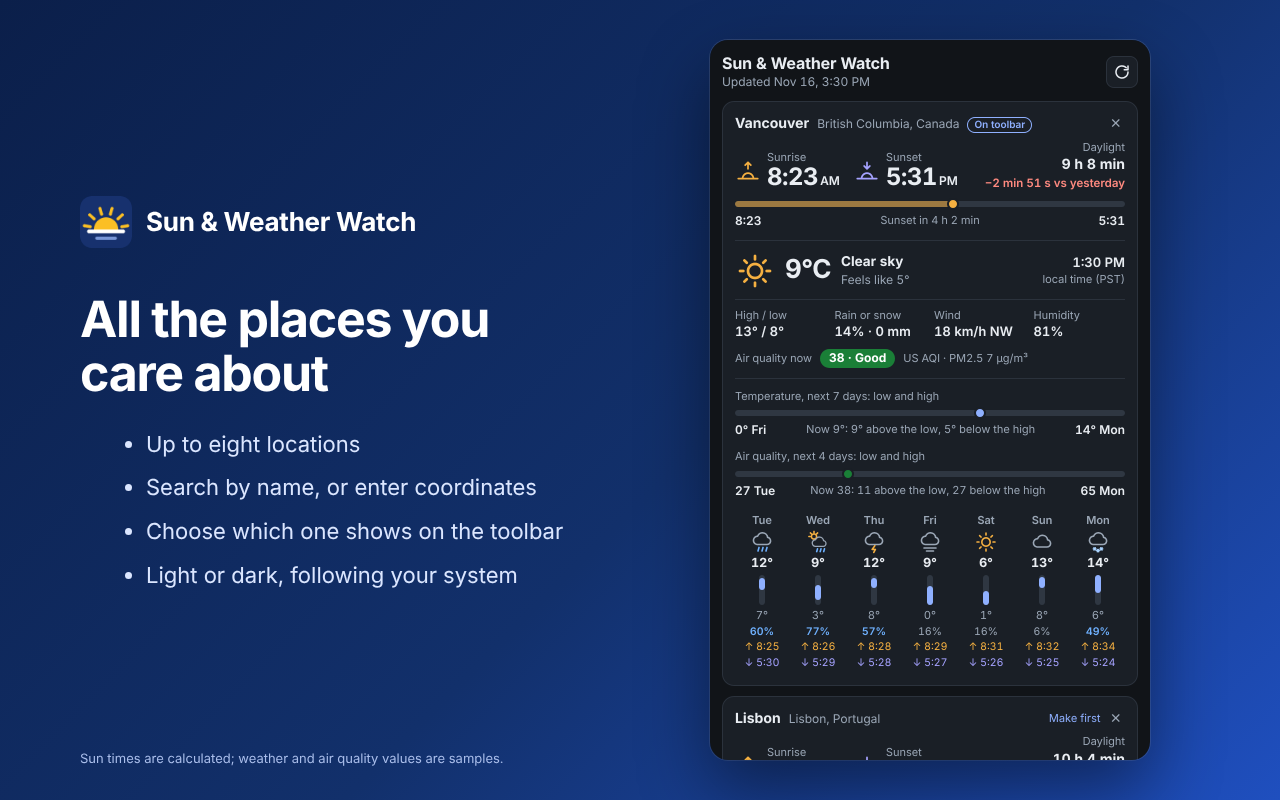
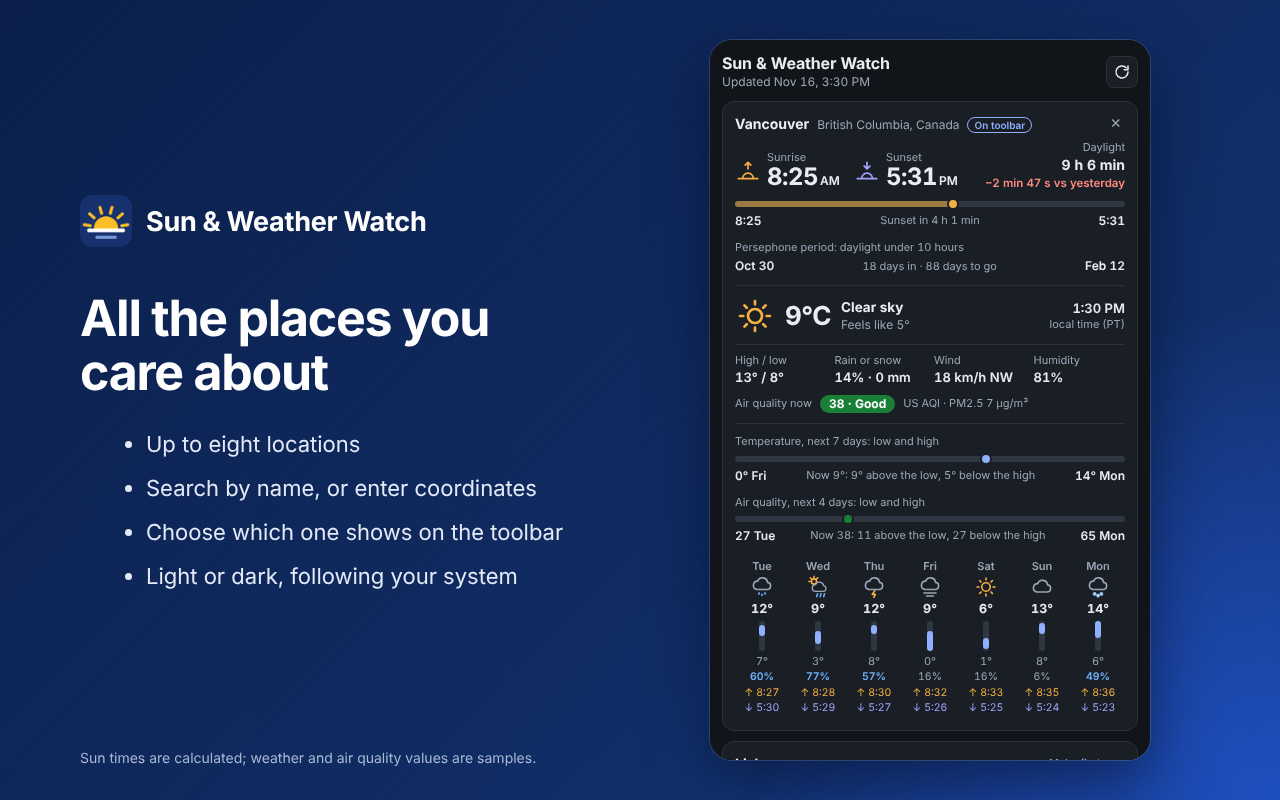
Add the 1.3.0 pictures and a "New in version 1.3.0" paragraph
- Replaces the three pictures on the Sun & Weather Watch page with
  ones that show the Persephone period section.
- Adds a short paragraph that explains the Persephone period.

Claude-Session: https://claude.ai/code/session_01Wu2kp82e9j91YsLmTTAuRq

diff --git a/sunweatherwatch/index.html b/sunweatherwatch/index.html
@@ -20,7 +20,10 @@
       <a class="store" href="https://microsoftedge.microsoft.com/addons/detail/sun-weather-watch/gieabaofnebembhchkoffmmfjfjfghcj">Microsoft Edge Add-ons</a>
     </p>
 
-    <div class="shots"><img src="img/sun.png" alt="Sun &amp; Weather Watch showing sunrise, sunset and day length"></div>
+    <div class="shots"><img src="img/sun.png" alt="Sun &amp; Weather Watch showing sunrise, sunset, day length and the Persephone period"></div>
+
+    <h2>New in version 1.3.0</h2>
+    <p>The Persephone period. Each location card now shows the part of the year when that place gets less than 10 hours of daylight. The period begins when local daylight falls below 10 hours and ends when it climbs back above 10 hours. Winter gardeners use the name for the weeks when short days slow plant growth to a near stop. The card shows the date the period begins, the date it ends, how many days in you are and how many days are left.</p>
 
     <h2>What it does</h2>
     <ul>
